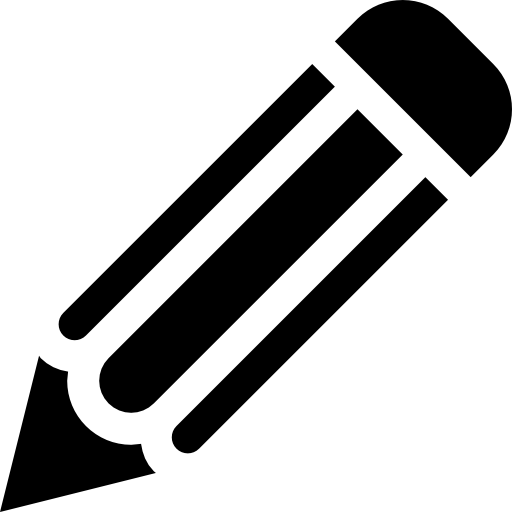
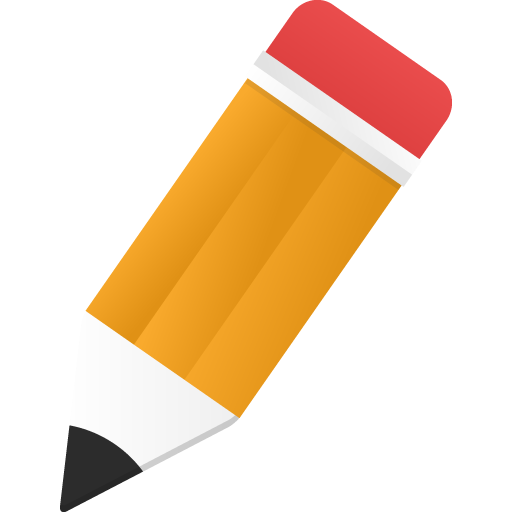
agregando edit

diff --git a/vista.py b/vista.py
@@ -32,11 +32,12 @@ class HomeScreen(Screen):
                 
                 box = BoxLayout(orientation='horizontal', padding=10, spacing=10, size_hint_y=None, height=50)
                 with box.canvas.before:
-                    Color(0, 0, 0, 0.1)  # Color de fondo (negro translúcido)
+                    Color(0, 0, 0, 0.1)  
                     Rectangle(pos=box.pos, size=box.size)
                 
                 box.bind(size=self._update_rect, pos=self._update_rect)
 
+                # Caracteristicas de cada producto de la tabla stock
                 box.add_widget(Label(text=f"ID: {producto_id}", color=(0, 0, 0, 1), font_size=18))
                 box.add_widget(Label(text=f"{nombre}", color=(0, 0, 0, 1), font_size=18))
                 box.add_widget(Label(text=f"{cantidad}", color=(0, 0, 0, 1), font_size=18))
@@ -44,6 +45,13 @@ class HomeScreen(Screen):
                 box.add_widget(Label(text=f"{precio_venta}", color=(0, 0, 0, 1), font_size=18))
                 box.add_widget(Label(text=f"{proveedor}", color=(0, 0, 0, 1), font_size=18))
                 box.add_widget(Label(text=f"{categoria}", color=(0, 0, 0, 1), font_size=18))
+                
+                # Botón de modificar
+                editar_btn = Button(size_hint=(None, None), size=(50, 50))
+                editar_btn.background_normal = 'archivos/img/editar.png'  
+                editar_btn.producto_id = producto_id
+                editar_btn.bind(on_press=self.editar_producto)
+                box.add_widget(editar_btn)
                 
                 # Botón de eliminar
                 eliminar_btn = Button(text="Eliminar", size_hint=(None, None), size=(100, 30))
@@ -68,6 +76,14 @@ class HomeScreen(Screen):
         except Exception as e:
             print(f"Error al eliminar producto: {e}")
 
+    def editar_producto(self, instance):
+        producto_id = instance.producto_id
+        edit_screen = self.manager.get_screen('edit')
+        producto = self.db.seleccionar_producto(producto_id)
+        if producto:
+            edit_screen.cargar_datos(producto)
+        self.manager.current = 'edit'
+        
     def _update_rect(self, instance, value):
         instance.canvas.before.children[-1].pos = instance.pos
         instance.canvas.before.children[-1].size = instance.size
@@ -93,6 +109,30 @@ class AltaScreen(Screen):
         except Exception as e:
             print(f"Error al agregar producto: {e}")
 
+class EditScreen(Screen):
+    def cargar_datos(self, producto):
+        producto_id, nombre, cantidad, costo, precio_venta, proveedor, categoria = producto
+        self.ids.producto_id.text = str(producto_id)
+        self.ids.producto.text = nombre
+        self.ids.cantidad.text = str(cantidad)
+        self.ids.costo.text = str(costo)
+        self.ids.precio_venta.text = str(precio_venta)
+        self.ids.proveedor.text = proveedor
+        self.ids.categoria.text = categoria
+
+    def guardar_cambios(self):
+        producto_id = int(self.ids.producto_id.text)
+        producto = self.ids.producto.text
+        cantidad = int(self.ids.cantidad.text)
+        costo = float(self.ids.costo.text)
+        precio_venta = float(self.ids.precio_venta.text)
+        proveedor = self.ids.proveedor.text
+        categoria = self.ids.categoria.text
+
+        self.db.actualizar(producto_id, producto, cantidad, costo, precio_venta, proveedor, categoria)
+        self.manager.current = 'home'
+        
+        
 class CreadorScreen(Screen):
     # Clase de la pagina - Creador
     pass

diff --git a/modelo.py b/modelo.py
@@ -60,6 +60,10 @@ class BaseDatos():
         self.cursor.execute(self.sql)
         rows = self.cursor.fetchall()
         return rows
+    
+    def seleccionar_producto(self, id):
+        self.cursor.execute('SELECT * FROM stock WHERE id=?', (id,))
+        return self.cursor.fetchone()
 
     
     def borrar(self, producto:int):
@@ -69,39 +73,13 @@ class BaseDatos():
         self.cursor.execute(self.sql, data)
         self.guardar_cambios()
         
-    def modificar(self, id:int, cantidad=0, costo=0.0, precio_venta=0.0, proveedor="", producto="", categoria=""):
-        # Actualiza algun elemento de la db
-        self.sql = "UPDATE stock SET "
-        data = []
-        
-        # Verificamos que haya ingresado dato para modificarlo, caso contrario quedara igual
-        if producto != "":
-            self.sql = self.sql + "producto=?, "  
-            data.append(producto) 
-        if cantidad != 0:
-            self.sql = self.sql + "cantidad=?, "
-            data.append(cantidad)
-        if costo != 0.0:
-            self.sql = self.sql + "costo=?, "
-            data.append(costo)
-        if precio_venta != 0.0:
-            self.sql = self.sql + "precio_venta=?, "
-            data.append(precio_venta)
-        if proveedor != "":
-            self.sql = self.sql + "proveedor=?, "
-            data.append(proveedor)
-        if categoria != "":
-            self.sql = self.sql + "categoria=?, "
-            data.append(proveedor)
-        
-        # Elimina la coma y el espacion final del comando de SQL   
-        self.sql = self.sql.rstrip(", ")
-        
-        data.append(id)   
-        data_tupla = tuple(data)
-        self.sql = self.sql + " WHERE id=?;"
-        self.cursor.execute(self.sql, data_tupla)
-        self.guardar_cambios()
+    def actualizar(self, id, producto, cantidad, costo, precio_venta, proveedor, categoria):
+        try:
+            data = (producto, cantidad, costo, precio_venta, proveedor, categoria, id)
+            self.cursor.execute('UPDATE stock SET producto=?, cantidad=?, costo=?, precio_venta=?, proveedor=?, categoria=? WHERE id=?', data)
+            self.guardar_cambios()
+        except sqlite3.Error as e:
+            print(f"Error al actualizar datos: {e}")
     
     def verificar_tabla(self,):
         # Verifica si la tabla 'stock' existe

diff --git a/controlador.py b/controlador.py
@@ -4,7 +4,7 @@
 # Librerias
 from kivy.app import App
 from kivy.uix.screenmanager import ScreenManager
-from vista import MenuScreen, HomeScreen, AltaScreen, CreadorScreen, EstadisticasScreen
+from vista import MenuScreen, HomeScreen, AltaScreen, CreadorScreen, EstadisticasScreen, EditScreen
 from modelo import BaseDatos
 from kivy.lang import Builder
 import webbrowser
@@ -26,6 +26,7 @@ class InventarioApp(App):
         sm.add_widget(AltaScreen(name='alta'))
         sm.add_widget(EstadisticasScreen(name='estadisticas'))
         sm.add_widget(CreadorScreen(name='creador'))
+        sm.add_widget(EditScreen(name='edit'))
 
         # Pasar la instancia de la base de datos a cada pantalla
         for screen in sm.screens:
